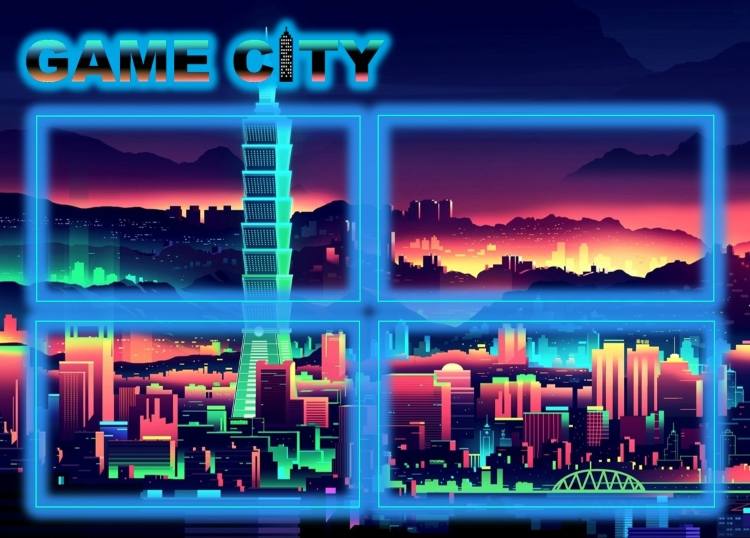
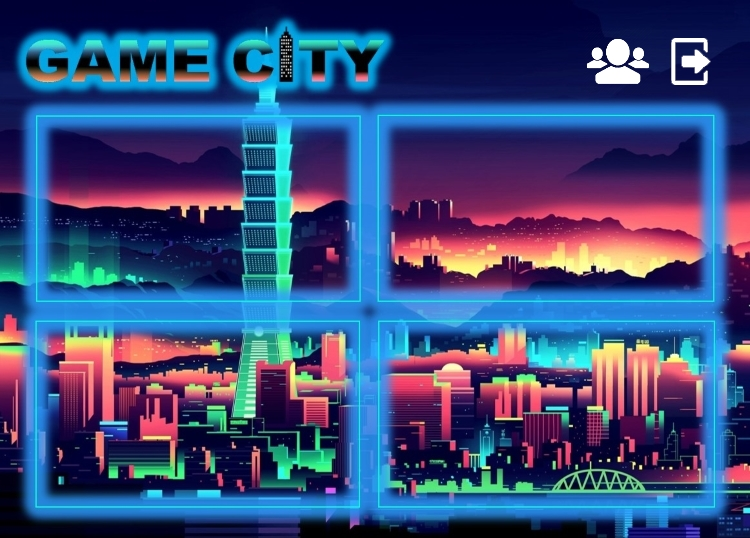
changes

Changed region(s): [[0.7667, 0.0595, 0.8587, 0.1784], [0.8893, 0.0595, 0.9507, 0.1784]]

diff --git a/graphics.py b/graphics.py
@@ -183,19 +183,21 @@ class ScrollBox():
         self.thumb = ImageButton(self.screen, self.x+self.width - 47, self.y, "images/glow.png", "scroll position")
 
     def show(self, events):
-        # pygame.draw.rect(self.screen, (255, 255, 0), (self.x, self.y, self.width, self.height))
         sur_x = self.x + self.margin
         sur_y = self.y + self.margin
         scroll_height = self.scroll_bar_rect[3]
         scroll_y = self.scroll_bar_rect[1]
-        sur = pygame.Surface((self.width, self.height), pygame.SRCALPHA, 32).convert_alpha()
+
+        sur = pygame.Surface((self.x+self.width, self.y+self.height), pygame.SRCALPHA, 32)
+
         for surface in self.surfaces:
             if type(surface) is pygame.Surface:
                 showed_y = int(sur_y - float(self.scroll_pos) / scroll_height * (self.get_dept()-self.height))
-                self.screen.blit(surface, (sur_x, showed_y))
+                sur.blit(surface, (sur_x, showed_y))
                 sur_y += surface.get_height() + self.margin
             else:
                 surface.set_position(sur_x, int(sur_y - float(self.scroll_pos) / scroll_height * (self.get_dept()-self.height)))
+                surface.screen = sur
                 surface.show()
                 sur_y += surface.get_height() + self.margin
 
@@ -354,15 +356,38 @@ class WritePostBar():
 
 class FriendsBar():
 
-    def __init__(self, screen, x, y):
+    def __init__(self, screen, x, y, friends=[]):
+        self.x = x
+        self.y = y
+        self.screen = screen
         self.background = pygame.image.load("images\\friends.png")
-        self.scroll_box = ScrollBox(screen, x, 100, self.background.get_width(), self.background.get_height()-100)
-        self.friends = []
+        self.width = self.background.get_width()
+        self.height = self.background.get_height()
+        self.scroll_box = ScrollBox(screen, self.x, self.y+100, self.width, self.height-100)
+        self.friends = friends
 
     def set_friends(self, friends_list):
         self.friends = friends_list
-        self.scroll_box.surfaces = [DrawButton(self.scroll_box.screen, 0, 0, 210, 40, PURPLE, friend, GREEN, GREEN)
+        self.scroll_box.surfaces = [DrawButton(self.scroll_box.screen, self.x, self.y, 210, 40, PURPLE, friend, GREEN, GREEN)
                                     for friend in friends_list]
+
+    def is_in(self):
+        x_mouse, y_mouse = pygame.mouse.get_pos()
+        return self.x<x_mouse<int(self.x+self.width) and self.y<y_mouse<int(self.y+self.height)
+
+    def activate(self):
+        while True:
+            events = pygame.event.get()
+            for event in events:
+                if event.type == pygame.QUIT:
+                    exit()
+                elif event.type == pygame.MOUSEBUTTONDOWN:
+                    break
+            self.screen.blit(self.background, (self.x,self.y))
+            self.scroll_box.show(events)
+            pygame.display.flip()
+
+
 
 
 
@@ -427,8 +452,8 @@ def main():
     screen = pygame.display.set_mode((750, 538))
     clock = pygame.time.Clock()
 
-    bar = FriendsBar(screen, 0, 0)
-    bar.set_friends(["elai", "maureen", "jesus", "momo", "shlomo", "yecheskerghoma", "fucker", "maureen is annoyinggg"])
+    bar = FriendsBar(screen, 80, 0)
+    bar.set_friends(["elai", "maureen", "jesus", "momo", "shlomo", "yecheskerghoma", "fucker", "maureen is annoyinggg", "f", "f", "sf", "Sd"])
 
     while True:
         screen.fill((225, 225, 225))
@@ -437,9 +462,7 @@ def main():
         for event in events:
             if event.type == pygame.QUIT:
                 exit()
-        screen.blit(bar.background, (0, 0))
-        bar.scroll_box.show(events)
-        # screen_print(screen, "hi\nmy name is\nelai")
+        bar.activate()
         # s.show(events)
         #
         # background = pygame.image.load("authen.jpg")

diff --git a/client.py b/client.py
@@ -45,6 +45,9 @@ game_buttons = [
     graphics.ImageButton(screen, 37, 322, "images\shoot.jpg", "00"),
     graphics.ImageButton(screen, 379, 322, "images\shoot.jpg", "00")
 ]
+friends_bar = graphics.FriendsBar(screen, 0, 0)
+friends_button = graphics.Button(576, 25, 81, 67, "friends")
+logout_button = graphics.Button(664, 29, 52, 63, "logout")
 
 #game page
 page_background = pygame.image.load("images\game_page_background.jpg")
@@ -121,6 +124,9 @@ while True:
         for event in events:
             if event.type == pygame.QUIT:
                 exit()
+
+        if friends_button.is_pressed(events):
+            friends_bar.activate(events)
 
         screen.blit(menu_background, (0, 0))
         for game in game_buttons:
